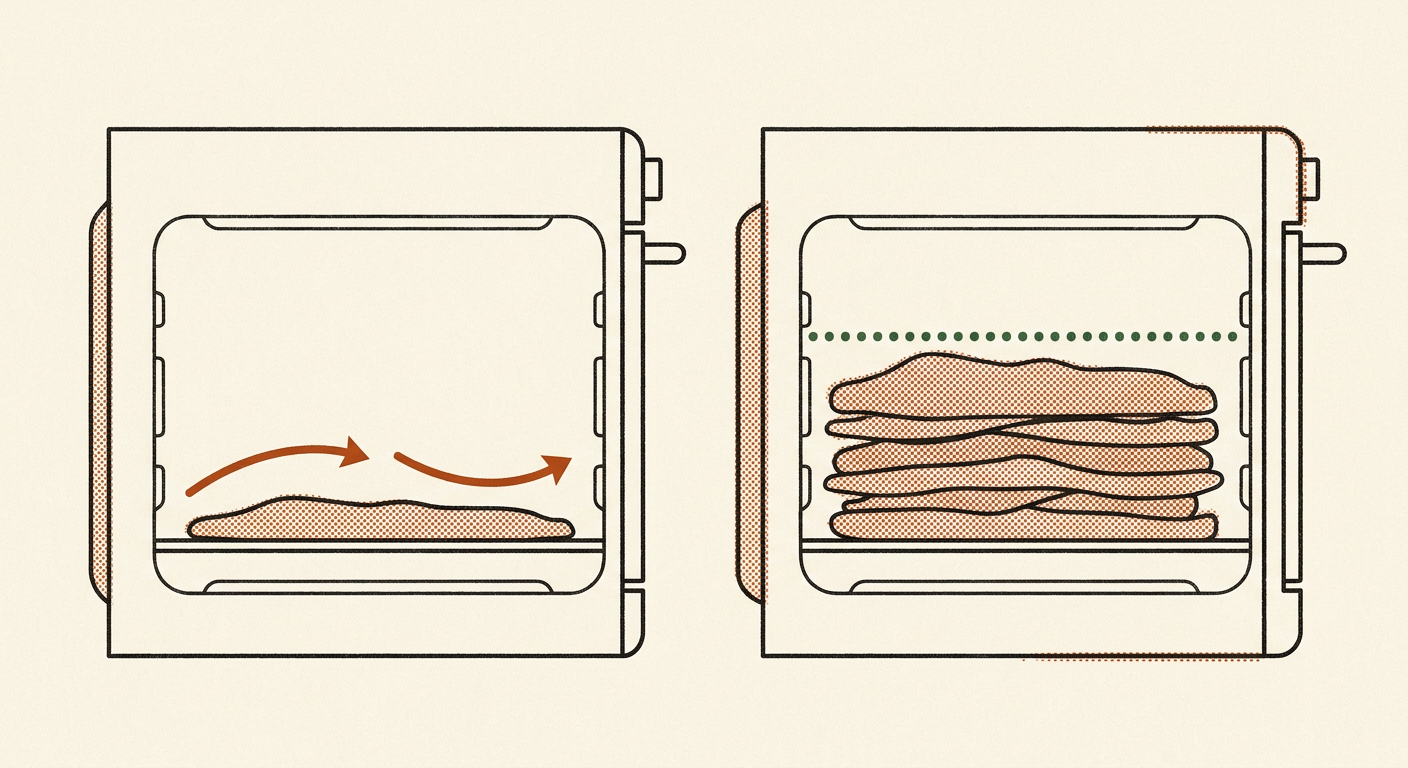
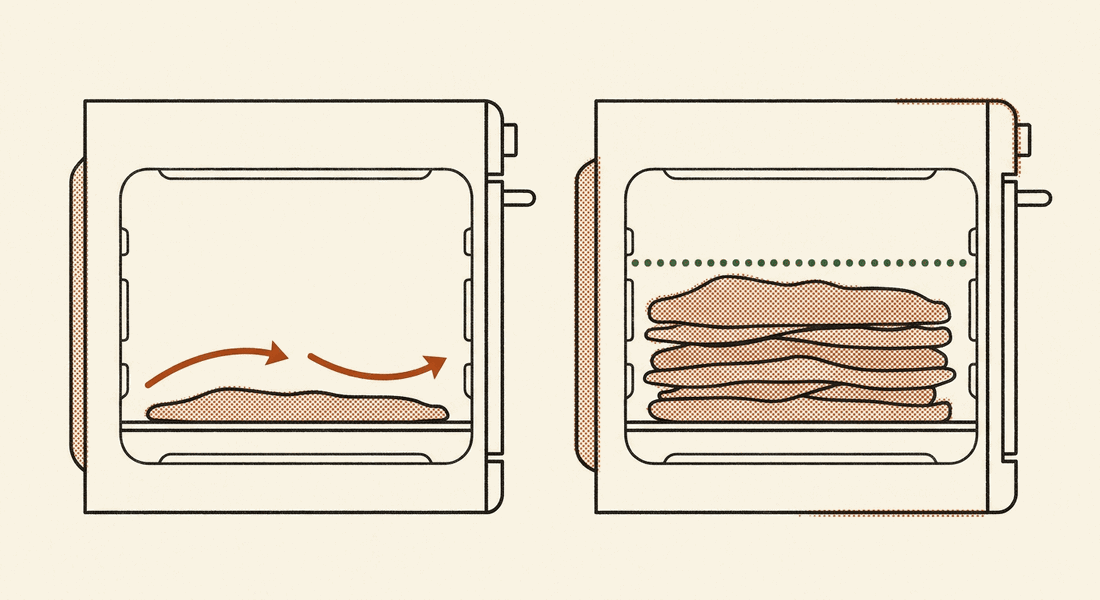
polish(site): self-tested gate, front-page verdict strip, image budget
Gate hardening found by testing the tester (injected violations):
- disclosure text is now fixed inside check.mjs against the wording quoted
  from Operating Agreement §5, so editing site.config.json cannot disable it
  (config drift is itself a failure)
- link gate also reads single-quoted href/src attributes; the generator
  normalises them to double quotes
- new assertions: no un-interpolated ${}, no double-escaped tags, every <img>
  carries intrinsic width/height

Editorial and performance:
- front page now states the one finding once (five links, identical state)
  with the identifier chips, instead of repeating one sentence across five
  rows; the address-not-linked note moves to the register where it applies
- pipeline and decision tables render their inline markup correctly (rich())
- hero/og/capacity illustrations quantised to a palette: 1.6MB -> 130-220KB
  each, resized to 1200px so a shared phone loads the page without a wait

diff --git a/executive-summary/index.html b/executive-summary/index.html
@@ -63,13 +63,13 @@
   <h2>4 · What is blocking the commercial half</h2>
   <p>Three blocking questions, all answerable by the account owner in under fifteen minutes: which product each link points at (<a href="../questions/#q-01">Q-01</a>), whether the identifier tokens are truncated (<a href="../questions/#q-02">Q-02</a>), and which marketplace the tracking ID is registered against (<a href="../questions/#q-03">Q-03</a>). Until those are answered, the site can publish method but not verdicts — which is exactly the distinction the guides are built on.</p>
   <h2>5 · Recommended path, in order</h2>
-  <div class="tablewrap"><table class="grid-table"><thead><tr><th>#</th><th>Move</th><th>Why this order</th><th>Board ref</th></tr></thead><tbody><tr><td><span class="stepno">1</span></td><td><span>Resolve the five identifiers by regenerating one tagged link per product from its listing</span></td><td><span>Every other decision depends on knowing what the product is, and this motion satisfies the Special Link rule at the same time</span></td><td><span>&lt;a href=&#39;../suggestions/#sg-01&#39;&gt;SG-01&lt;/a&gt;, &lt;a href=&#39;./suggestions/#sg-02&#39;&gt;SG-02&lt;/a&gt;</span></td></tr>
-<tr><td><span class="stepno">2</span></td><td><span>Fix the marketplace/locale (US vs NL/EU) before writing for it</span></td><td><span>A wrong store link loses the sale and the reader at once; geo-redirects are prohibited so the choice has to be explicit</span></td><td><span>&lt;a href=&#39;../suggestions/#sg-03&#39;&gt;SG-03&lt;/a&gt;</span></td></tr>
-<tr><td><span class="stepno">3</span></td><td><span>Publish one guide a week from the four briefed questions, then pick the fifth from Search Console queries</span></td><td><span>Cadence with a measured selector is the only version of &#39;content strategy&#39; this desk can defend</span></td><td><span>&lt;a href=&#39;../suggestions/#sg-08&#39;&gt;SG-08&lt;/a&gt;, &lt;a href=&#39;./suggestions/#sg-09&#39;&gt;SG-09&lt;/a&gt;</span></td></tr>
-<tr><td><span class="stepno">4</span></td><td><span>Turn on measurement in the safe order: local counters + Search Console; collector only with a host and a legal basis</span></td><td><span>Static hosting cannot receive events, and per-visitor tagging is barred; the honest floor is aggregate counting</span></td><td><span>&lt;a href=&#39;../suggestions/#sg-06&#39;&gt;SG-06&lt;/a&gt;</span></td></tr>
-<tr><td><span class="stepno">5</span></td><td><span>Decide authorship (a named human) before any claim gets stronger than method</span></td><td><span>The disclosure sentence is first-person; endorsements need an endorser</span></td><td><span>&lt;a href=&#39;../suggestions/#sg-12&#39;&gt;SG-12&lt;/a&gt;</span></td></tr>
-<tr><td><span class="stepno">6</span></td><td><span>After ten qualifying sales in thirty days, unlock the API and only then build price-aware comparison tables and a staleness bot</span></td><td><span>This is the sequence the rules force: content earns the data access, the data access earns the automation</span></td><td><span>&lt;a href=&#39;../suggestions/#sg-05&#39;&gt;SG-05&lt;/a&gt;, &lt;a href=&#39;./suggestions/#sg-07&#39;&gt;SG-07&lt;/a&gt;</span></td></tr>
-<tr><td><span class="stepno">7</span></td><td><span>Keep the domain decision open until ten guides exist, then move with one commit</span></td><td><span>Canonicals and the sitemap are generated; flip them once, deliberately</span></td><td><span>&lt;a href=&#39;../suggestions/#sg-10&#39;&gt;SG-10&lt;/a&gt;</span></td></tr></tbody></table></div>
+  <div class="tablewrap"><table class="grid-table"><thead><tr><th>#</th><th>Move</th><th>Why this order</th><th>Board ref</th></tr></thead><tbody><tr><td><span class="stepno">1</span></td><td>Resolve the five identifiers by regenerating one tagged link per product from its listing</td><td>Every other decision depends on knowing what the product is, and this motion satisfies the Special Link rule at the same time</td><td><a href="../suggestions/#sg-01">SG-01</a>, <a href="../suggestions/#sg-02">SG-02</a></td></tr>
+<tr><td><span class="stepno">2</span></td><td>Fix the marketplace/locale (US vs NL/EU) before writing for it</td><td>A wrong store link loses the sale and the reader at once; geo-redirects are prohibited so the choice has to be explicit</td><td><a href="../suggestions/#sg-03">SG-03</a></td></tr>
+<tr><td><span class="stepno">3</span></td><td>Publish one guide a week from the four briefed questions, then pick the fifth from Search Console queries</td><td>Cadence with a measured selector is the only version of 'content strategy' this desk can defend</td><td><a href="../suggestions/#sg-08">SG-08</a>, <a href="../suggestions/#sg-09">SG-09</a></td></tr>
+<tr><td><span class="stepno">4</span></td><td>Turn on measurement in the safe order: local counters + Search Console; collector only with a host and a legal basis</td><td>Static hosting cannot receive events, and per-visitor tagging is barred; the honest floor is aggregate counting</td><td><a href="../suggestions/#sg-06">SG-06</a></td></tr>
+<tr><td><span class="stepno">5</span></td><td>Decide authorship (a named human) before any claim gets stronger than method</td><td>The disclosure sentence is first-person; endorsements need an endorser</td><td><a href="../suggestions/#sg-12">SG-12</a></td></tr>
+<tr><td><span class="stepno">6</span></td><td>After ten qualifying sales in thirty days, unlock the API and only then build price-aware comparison tables and a staleness bot</td><td>This is the sequence the rules force: content earns the data access, the data access earns the automation</td><td><a href="../suggestions/#sg-05">SG-05</a>, <a href="../suggestions/#sg-07">SG-07</a></td></tr>
+<tr><td><span class="stepno">7</span></td><td>Keep the domain decision open until ten guides exist, then move with one commit</td><td>Canonicals and the sitemap are generated; flip them once, deliberately</td><td><a href="../suggestions/#sg-10">SG-10</a></td></tr></tbody></table></div>
   <h2>6 · What this summary does not claim</h2>
   <ul class="plain">
     <li>It does not claim traffic, rankings, conversions or revenue. There is no measurement history in this repository, and the ledger is empty on purpose.</li>

diff --git a/how-it-works/index.html b/how-it-works/index.html
@@ -41,15 +41,15 @@
 <p class="sub">Everything in the left column below runs on <code>npm run verify</code> and fails the build. Everything in the right column needs a person, because it depends on an account, a listing, or a judgement we refuse to fake.</p></header>
 <section class="band">
   <div class="band-head"><h2>Pipeline</h2></div>
-  <div class="tablewrap"><table class="grid-table"><thead><tr><th>Stage</th><th>Automated?</th><th>How it works here</th><th>Rule</th></tr></thead><tbody><tr><td><strong>Ingest supplied links</strong></td><td><span class="ptag t-auto">auto</span></td><td><span>Validated for shape (length, case, host) by the intent register; a token that fails the shape check can never become a published claim.</span></td><td>SRC-12</td></tr>
-<tr><td><strong>Confirm product identity</strong></td><td><span class="ptag t-human">human</span></td><td><span>Needs a real listing opened by the account owner. Recorded per row in &lt;code&gt;data/product-intent.json&lt;/code&gt;, kept separate from any observed redirect.</span></td><td>SRC-01 §1</td></tr>
-<tr><td><strong>Build Special Links</strong></td><td><span class="ptag t-auto">auto</span></td><td><span>The generator emits the tagged format with &lt;code&gt;rel=&amp;quot;sponsored nofollow&amp;quot;&lt;/code&gt; and the (paid link) label; the gate rejects a store link without a tag.</span></td><td>SRC-01 §1<br>SRC-02 §2(b)<br>SRC-16</td></tr>
-<tr><td><strong>Write the guide</strong></td><td><span class="ptag t-mixed">drafted auto, owned by a person</span></td><td><span>Blocks come from &lt;code&gt;content/guides/*.json&lt;/code&gt;; a named reviewer must set &lt;code&gt;reviewed_on&lt;/code&gt; before a claim gets stronger than method.</span></td><td>SRC-02 §1<br>SRC-08</td></tr>
-<tr><td><strong>Publish price or rating</strong></td><td><span class="ptag t-blocked">blocked, not declined</span></td><td><span>Not permitted from this position: only an Amazon-served link or the approved API may carry those values, and API access needs a sales threshold. The build forbids the pattern outright.</span></td><td>SRC-02 §2(b), §6(t)<br>SRC-05</td></tr>
-<tr><td><strong>Keep content fresh</strong></td><td><span class="ptag t-mixed">auto-flag, human-check</span></td><td><span>Rows older than 30 days fail the build, so the removal duty cannot be quietly skipped.</span></td><td>SRC-02 §6(c)</td></tr>
-<tr><td><strong>Sitemap, feed, canonical</strong></td><td><span class="ptag t-auto">auto</span></td><td><span>Regenerated from the guide registry on every build; the feed body carries no store link.</span></td><td>SRC-07<br>SRC-02 §4</td></tr>
-<tr><td><strong>Measure clicks</strong></td><td><span class="ptag t-auto">auto, local-only</span></td><td><span>Counter in the visitor&#39;s browser; posting disabled until an endpoint exists. Never a per-visitor sub-tag.</span></td><td>SRC-02 §2(b), §6(s)</td></tr>
-<tr><td><strong>Optimise campaigns</strong></td><td><span class="ptag t-none">not built, on purpose</span></td><td><span>No campaign logic exists that could act on unverified data; the ledger starts empty by design.</span></td><td>—</td></tr></tbody></table></div><p class="tcap">Read the middle column as the promise and the last column as the reason the promise is shaped that way.</p>
+  <div class="tablewrap"><table class="grid-table"><thead><tr><th>Stage</th><th>Automated?</th><th>How it works here</th><th>Rule</th></tr></thead><tbody><tr><td><strong>Ingest supplied links</strong></td><td><span class="ptag t-auto">auto</span></td><td>Validated for shape (length, case, host) by the intent register; a token that fails the shape check can never become a published claim.</td><td>SRC-12</td></tr>
+<tr><td><strong>Confirm product identity</strong></td><td><span class="ptag t-human">human</span></td><td>Needs a real listing opened by the account owner. Recorded per row in <code>data/product-intent.json</code>, kept separate from any observed redirect.</td><td>SRC-01 §1</td></tr>
+<tr><td><strong>Build Special Links</strong></td><td><span class="ptag t-auto">auto</span></td><td>The generator emits the tagged format with <code>rel=&quot;sponsored nofollow&quot;</code> and the (paid link) label; the gate rejects a store link without a tag.</td><td>SRC-01 §1<br>SRC-02 §2(b)<br>SRC-16</td></tr>
+<tr><td><strong>Write the guide</strong></td><td><span class="ptag t-mixed">drafted auto, owned by a person</span></td><td>Blocks come from <code>content/guides/*.json</code>; a named reviewer must set <code>reviewed_on</code> before a claim gets stronger than method.</td><td>SRC-02 §1<br>SRC-08</td></tr>
+<tr><td><strong>Publish price or rating</strong></td><td><span class="ptag t-blocked">blocked, not declined</span></td><td>Not permitted from this position: only an Amazon-served link or the approved API may carry those values, and API access needs a sales threshold. The build forbids the pattern outright.</td><td>SRC-02 §2(b), §6(t)<br>SRC-05</td></tr>
+<tr><td><strong>Keep content fresh</strong></td><td><span class="ptag t-mixed">auto-flag, human-check</span></td><td>Rows older than 30 days fail the build, so the removal duty cannot be quietly skipped.</td><td>SRC-02 §6(c)</td></tr>
+<tr><td><strong>Sitemap, feed, canonical</strong></td><td><span class="ptag t-auto">auto</span></td><td>Regenerated from the guide registry on every build; the feed body carries no store link.</td><td>SRC-07<br>SRC-02 §4</td></tr>
+<tr><td><strong>Measure clicks</strong></td><td><span class="ptag t-auto">auto, local-only</span></td><td>Counter in the visitor's browser; posting disabled until an endpoint exists. Never a per-visitor sub-tag.</td><td>SRC-02 §2(b), §6(s)</td></tr>
+<tr><td><strong>Optimise campaigns</strong></td><td><span class="ptag t-none">not built, on purpose</span></td><td>No campaign logic exists that could act on unverified data; the ledger starts empty by design.</td><td>—</td></tr></tbody></table></div><p class="tcap">Read the middle column as the promise and the last column as the reason the promise is shaped that way.</p>
 </section>
 <section class="band two">
   <div><div class="band-head"><h2>Why the AI pipeline is smaller than the brief implies</h2></div>

diff --git a/index.html b/index.html
@@ -59,18 +59,24 @@
 </section>
 
 <figure class="fig fig-lead">
-  <img src="./assets/img/hero.png" alt="Illustration: a basket-style air fryer with its drawer pulled open, beside a cross-section diagram showing air circulating over a single layer of food, a folded towel and a tape measure on the counter." width="1200" height="630">
+  <img src="./assets/img/hero.png" alt="Illustration: a basket-style air fryer with its drawer pulled open, beside a cross-section diagram showing air circulating over a single layer of food, a folded towel and a tape measure on the counter." width="1200" width="1200" height="654">
   <figcaption>The one comparison that matters is air reaching food. Our diagrams are drawn for this publication — <span class="fig-tag">illustration, not product imagery</span>, because reusing a store's photographs is a rights question we have not settled.</figcaption>
 </figure>
 
 <section class="band">
   <div class="band-head"><h2>On the desk now</h2><a class="more" href="./picks/">Full register →</a></div>
-  <div class="tablewrap"><table class="grid-table"><thead><tr><th>Row</th><th>Identifier we were given</th><th>What we can say</th><th>Status</th><th>Address as supplied</th></tr></thead><tbody><tr><td><code>PI-01</code></td><td><code class="tok">B04G1MEwY</code> <span class="dim">9 chars</span></td><td>We can report the string and its length. We cannot report the product behind it: no listing was reachable from the build environment, and no confirmed identifier exists in the register.</td><td><span class="badge s-unresolved">unresolved</span></td><td><code class="mono-xs">link.amazon/B04G1MEwY</code></td></tr>
-<tr><td><code>PI-02</code></td><td><code class="tok">B02NbDxp3</code> <span class="dim">9 chars</span></td><td>We can report the string and its length. We cannot report the product behind it: no listing was reachable from the build environment, and no confirmed identifier exists in the register.</td><td><span class="badge s-unresolved">unresolved</span></td><td><code class="mono-xs">link.amazon/B02NbDxp3</code></td></tr>
-<tr><td><code>PI-03</code></td><td><code class="tok">B00hJ57DV</code> <span class="dim">9 chars</span></td><td>We can report the string and its length. We cannot report the product behind it: no listing was reachable from the build environment, and no confirmed identifier exists in the register.</td><td><span class="badge s-unresolved">unresolved</span></td><td><code class="mono-xs">link.amazon/B00hJ57DV</code></td></tr>
-<tr><td><code>PI-04</code></td><td><code class="tok">B0c8moW59</code> <span class="dim">9 chars</span></td><td>We can report the string and its length. We cannot report the product behind it: no listing was reachable from the build environment, and no confirmed identifier exists in the register.</td><td><span class="badge s-unresolved">unresolved</span></td><td><code class="mono-xs">link.amazon/B0c8moW59</code></td></tr>
-<tr><td><code>PI-05</code></td><td><code class="tok">B0f3GKalj</code> <span class="dim">9 chars</span></td><td>We can report the string and its length. We cannot report the product behind it: no listing was reachable from the build environment, and no confirmed identifier exists in the register.</td><td><span class="badge s-unresolved">unresolved</span></td><td><code class="mono-xs">link.amazon/B0f3GKalj</code></td></tr></tbody></table></div>
-  <p class="hint">We print the supplied address rather than linking it: the destination is unconfirmed, the URL carries no tracking tag, and a reader should never be sent somewhere we cannot vouch for. Copy it to check it yourself.</p>
+  <div class="verdict">
+    <p class="verdict-line"><strong>5 links were supplied for marketing.</strong>
+      All five are in the same state: the identifier measures 9 characters,
+      no tracking tag is present in the address, and none of the four product fields
+      (title, listing, price, rating) could be confirmed from an official source.</p>
+    <ul class="chips">
+      <li><code>B04G1MEwY</code><span>9 chars · unresolved</span></li><li><code>B02NbDxp3</code><span>9 chars · unresolved</span></li><li><code>B00hJ57DV</code><span>9 chars · unresolved</span></li><li><code>B0c8moW59</code><span>9 chars · unresolved</span></li><li><code>B0f3GKalj</code><span>9 chars · unresolved</span></li>
+    </ul>
+    <p class="verdict-foot">5 of 5 rows are blocked on three questions the account owner can answer in about fifteen minutes —
+      <a href="./questions/#q-01">Q-01</a>, <a href="./questions/#q-02">Q-02</a>, <a href="./questions/#q-03">Q-03</a>.
+      When they are answered, the titles below fill themselves and the guides gain a product link beside a “(paid link)” label.</p>
+  </div>
 </section>
 
 <section class="band">

diff --git a/picks/index.html b/picks/index.html
@@ -48,6 +48,7 @@
 <tr><td><code>PI-03</code></td><td><code class="mono-xs">link.amazon/B00hJ57DV</code></td><td>B00hJ57DV</td><td><span class="fail">9 chars · shape check failed</span></td><td><span class="no">no</span></td><td><span class="blank" title="not confirmed by an official source">—<span class="blank-note"> not verified</span></span></td><td><span class="blank" title="not confirmed by an official source">—<span class="blank-note"> not verified</span></span></td><td><span class="blank" title="Only Amazon-served content or Creators/PA API output may carry a price (SRC-02 §2(b)); neither is available here">—<span class="blank-note"> not verified</span></span></td><td><span class="blank" title="Customer reviews and star ratings require a link obtained via Creators API or PA API (SRC-02 §6(t))">—<span class="blank-note"> not verified</span></span></td><td><span class="blank" title="Not observable from the build sandbox; egress to that host is blocked">—<span class="blank-note"> not verified</span></span></td></tr>
 <tr><td><code>PI-04</code></td><td><code class="mono-xs">link.amazon/B0c8moW59</code></td><td>B0c8moW59</td><td><span class="fail">9 chars · shape check failed</span></td><td><span class="no">no</span></td><td><span class="blank" title="not confirmed by an official source">—<span class="blank-note"> not verified</span></span></td><td><span class="blank" title="not confirmed by an official source">—<span class="blank-note"> not verified</span></span></td><td><span class="blank" title="Only Amazon-served content or Creators/PA API output may carry a price (SRC-02 §2(b)); neither is available here">—<span class="blank-note"> not verified</span></span></td><td><span class="blank" title="Customer reviews and star ratings require a link obtained via Creators API or PA API (SRC-02 §6(t))">—<span class="blank-note"> not verified</span></span></td><td><span class="blank" title="Not observable from the build sandbox; egress to that host is blocked">—<span class="blank-note"> not verified</span></span></td></tr>
 <tr><td><code>PI-05</code></td><td><code class="mono-xs">link.amazon/B0f3GKalj</code></td><td>B0f3GKalj</td><td><span class="fail">9 chars · shape check failed</span></td><td><span class="no">no</span></td><td><span class="blank" title="not confirmed by an official source">—<span class="blank-note"> not verified</span></span></td><td><span class="blank" title="not confirmed by an official source">—<span class="blank-note"> not verified</span></span></td><td><span class="blank" title="Only Amazon-served content or Creators/PA API output may carry a price (SRC-02 §2(b)); neither is available here">—<span class="blank-note"> not verified</span></span></td><td><span class="blank" title="Customer reviews and star ratings require a link obtained via Creators API or PA API (SRC-02 §6(t))">—<span class="blank-note"> not verified</span></span></td><td><span class="blank" title="Not observable from the build sandbox; egress to that host is blocked">—<span class="blank-note"> not verified</span></span></td></tr></tbody></table></div>
+  <p class="blanks"><strong>About the address column.</strong> We print each supplied address instead of linking it: the destination is unconfirmed, the URL carries no tracking tag, and a reader should never be sent somewhere we cannot vouch for. Copy it to check it yourself, then confirm it with <a href="https://affiliate-program.amazon.com/help/operating/policies" rel="noopener">the linking requirements</a> open.</p>
   <p class="blanks"><strong>Why the empty columns are empty.</strong> Title, listing URL, price, rating and redirect target all require opening a listing. Egress from the build environment to the store is refused (see <a href="../flagged/#flg-003">FLG-003</a>), and price and rating fields are additionally restricted by the program rules (<a href="../flagged/#flg-005">FLG-005</a>). We did not fill any of them in.</p>
 </section>
 

diff --git a/disclosure/index.html b/disclosure/index.html
@@ -39,9 +39,9 @@
 <header class="page-head"><p class="kicker">Disclosure</p><h1>Who pays for what, here</h1></header>
 <p class="lede"><strong>As an Amazon Associate I earn from qualifying purchases.</strong> That sentence is the wording the Associates Program Operating Agreement requires, and we reproduce it without changing it. It appears at the top of every page, again in the footer of every page, and again at the end of every guide.</p>
 <div class="tablewrap"><table class="grid-table"><thead><tr><th>What</th><th>Where it appears</th><th>Why</th></tr></thead><tbody><tr><td><strong>The required sentence</strong></td><td>Strip under the masthead on every page; repeated in the footer; repeated on each guide</td><td>The agreement requires it to be clearly and prominently stated on the site, and a reader should not have to scroll to find out who may be paid</td></tr>
-<tr><td><strong>A link-level label</strong></td><td>Immediately beside each store link, reading “${esc(CFG.monetization.link_level_label)}”</td><td>Amazon&#39;s own help separates the site-wide sentence from the label that sits next to a link</td></tr>
-<tr><td><strong>&lt;code&gt;rel=&quot;sponsored&quot;&lt;/code&gt;</strong></td><td>Every store link&#39;s markup</td><td>Google documents &lt;code&gt;sponsored&lt;/code&gt; as the value for paid placements; it costs us no traffic, because attribution is carried by the tag parameter, not by a search engine</td></tr>
-<tr><td><strong>&lt;code&gt;tag=${esc(CFG.monetization.tracking_id)}&lt;/code&gt;</strong></td><td>Every store link&#39;s URL</td><td>The agreement permits only the tagged link formats Amazon provides, and an untagged link does not accrue</td></tr></tbody></table></div><p class="tcap">There are currently no store links to any product on this site, because no product is confirmed. The rules above are implemented in the generator and asserted by the gate so that the first real link is compliant on the day it appears.</p>
+<tr><td><strong>A link-level label</strong></td><td>Immediately beside each store link, reading “(paid link)”</td><td>Amazon's own help separates the site-wide sentence from the label that sits next to a link</td></tr>
+<tr><td><strong>The sponsored value</strong></td><td>In the markup of every store link: <code>rel=“sponsored nofollow”</code></td><td>Google documents <code>sponsored</code> as the value for paid placements; it costs us no traffic, because attribution is carried by the tag parameter, not by a search engine</td></tr>
+<tr><td><strong>The tracking tag</strong></td><td>In the URL of every store link: <code>tag=shopnow047c-20</code></td><td>The agreement permits only the tagged link formats Amazon provides, and an untagged link does not accrue</td></tr></tbody></table></div><p class="tcap">There are currently no store links to any product on this site, because no product is confirmed. The rules above are implemented in the generator and asserted by the gate, so the first real link is compliant on the day it appears.</p>
 <h2>What we will not do to earn a commission</h2>
 <ul class="plain">
   <li>No prices, availability, star ratings or review text — only an Amazon-served link or the approved API may carry those, and we have neither.</li>

diff --git a/guides/capacity-checklist/index.html b/guides/capacity-checklist/index.html
@@ -51,7 +51,7 @@
 <p>Ask one question of every listing: is this the <strong>cooking chamber</strong> or the <strong>whole interior including door and element housing</strong>? Manufacturers state both. Some say &#39;capacity to the fill line&#39;, some say &#39;total chamber&#39;, and some only say a number. Where the definition is missing, treat the figure as unverified rather than as a small-print win.</p>
 <aside class="callout callout-warn"><p>A litre or quart figure with no stated definition is not a comparison. It is a decoration with a unit attached. Two listings can both say the same number and mean different boxes.</p></aside>
 <h2 id="2-convert-volume-into-a-single-layer-because-that-is-how-cri">2. Convert volume into a single layer, because that is how crisping works</h2>
-<figure class="fig"><img src="../../assets/img/capacity.png" alt="Two cross-section diagrams of a cooking chamber: on the left a single flat layer of food with air curving over it; on the right the same chamber packed with stacked layers and a dotted line where the airflow is blocked." loading="lazy" width="1200" height="630"><figcaption>Left: one layer, air on both faces. Right: the same litre figure, no air. This is why a volume number and a capacity claim are not the same statement. <span class="fig-tag">illustration, not product imagery</span></figcaption></figure>
+<figure class="fig"><img src="../../assets/img/capacity.png" alt="Two cross-section diagrams of a cooking chamber: on the left a single flat layer of food with air curving over it; on the right the same chamber packed with stacked layers and a dotted line where the airflow is blocked." loading="lazy" width="1100" height="600"><figcaption>Left: one layer, air on both faces. Right: the same litre figure, no air. This is why a volume number and a capacity claim are not the same statement. <span class="fig-tag">illustration, not product imagery</span></figcaption></figure>
 <p>Anything you want browned on two faces needs to lie flat with air around it. So take the usable area of the basket floor - length × width, from the dimensions the listing states, not from a photo - and count how many of your actual items fit in one layer. Wings: count them. Fries: a shallow pile is fine. A whole small bird: it either stands inside the stated height or it does not.</p>
 <section class="checks"><h3>The four numbers worth writing down before you compare two models:</h3><ul><li>Basket floor area in cm, from the <strong>product dimensions</strong> table (not the box dimensions)</li><li>Height clearance to the element or the drawer face, same table</li><li>Rack count, if the unit claims more than one layer - because two real layers beat one big one on throughput</li><li>Whether the stated number is per layer or for the unit</li></ul></section>
 <h2 id="3-distrust-the-household-size-sentence">3. Distrust the household-size sentence</h2>

diff --git a/privacy/index.html b/privacy/index.html
@@ -38,8 +38,8 @@
 <main id="main">
 <header class="page-head"><p class="kicker">Privacy</p><h1>Nothing is sent off your device by us</h1></header>
 <p class="lede">This is a static site. There is no analytics tag, no advertising pixel, no social widget and no third-party script: the two JavaScript files are ours, are same-origin, and load nothing else. Our own click counter keeps its totals in your browser's local storage and posts them nowhere — the collector ships switched off.</p>
-<div class="tablewrap"><table class="grid-table"><thead><tr><th>Recorded</th><th>Where</th><th>Retention</th><th>Sent to us?</th></tr></thead><tbody><tr><td>Guide read progress, outbound link taps, decision-board choices</td><td>your browser&#39;s &lt;code&gt;localStorage&lt;/code&gt;</td><td>until you clear it; a button on the ideas board clears it</td><td>No. There is no endpoint configured.</td></tr>
-<tr><td>Your IP address</td><td>GitHub Pages, for security, per its own documentation</td><td>as the host&#39;s policy states</td><td>Not by us — by the host. We do not receive it.</td></tr>
+<div class="tablewrap"><table class="grid-table"><thead><tr><th>Recorded</th><th>Where</th><th>Retention</th><th>Sent to us?</th></tr></thead><tbody><tr><td>Guide read progress, outbound link taps, decision-board choices</td><td>your browser's <code>localStorage</code></td><td>until you clear it; a button on the ideas board clears it</td><td>No. There is no endpoint configured.</td></tr>
+<tr><td>Your IP address</td><td>GitHub Pages, for security, per its own documentation</td><td>as the host's policy states</td><td>Not by us — by the host. We do not receive it.</td></tr>
 <tr><td>Cookies</td><td>— none set by this site</td><td>—</td><td>n/a</td></tr>
 <tr><td>Email address</td><td>not collected; there is no signup form that transmits anything</td><td>—</td><td>n/a</td></tr></tbody></table></div>
 <h2>If you turn the collector on</h2>

diff --git a/assets/styles.css b/assets/styles.css
@@ -442,3 +442,15 @@ dl{margin:.5rem 0 0}
 .t-human,.t-mixed{background:var(--amber-soft);color:var(--amber)}
 .t-blocked{background:var(--ember-soft);color:var(--ember)}
 .t-none{background:var(--paper-2);color:var(--ink-3);border:1px solid var(--rule)}
+
+.row-say{font-size:.79rem;color:var(--ink-2);display:block;max-width:44ch}
+
+/* ---------- front-page verdict strip ---------- */
+.verdict{background:var(--card);border:1px solid var(--rule);border-top:3px solid var(--ink);padding:1.1rem 1.2rem 1rem;box-shadow:var(--shadow)}
+.verdict-line{margin:0 0 .95rem;font:1.02rem/1.55 var(--serif);color:var(--ink);max-width:74ch}
+.verdict-line strong{font-weight:600}
+.chips{list-style:none;margin:0 0 .95rem;padding:0;display:flex;flex-wrap:wrap;gap:.45rem}
+.chips li{display:flex;align-items:baseline;gap:.45rem;border:1px solid var(--rule);background:var(--paper-2);padding:.3rem .5rem;border-radius:2px}
+.chips code{font-size:.79rem;background:none;padding:0;color:var(--ink);letter-spacing:.02em}
+.chips span{font-size:.68rem;letter-spacing:.06em;text-transform:uppercase;color:var(--amber);white-space:nowrap}
+.verdict-foot{margin:0;font-size:.83rem;line-height:1.55;color:var(--ink-2);border-top:1px dotted var(--rule);padding-top:.75rem}
